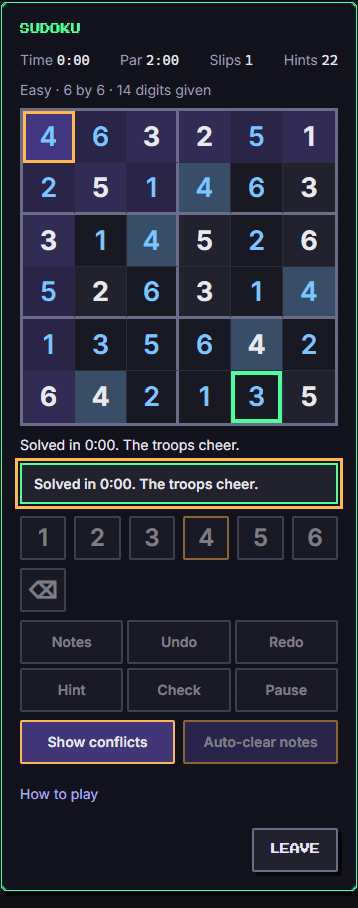
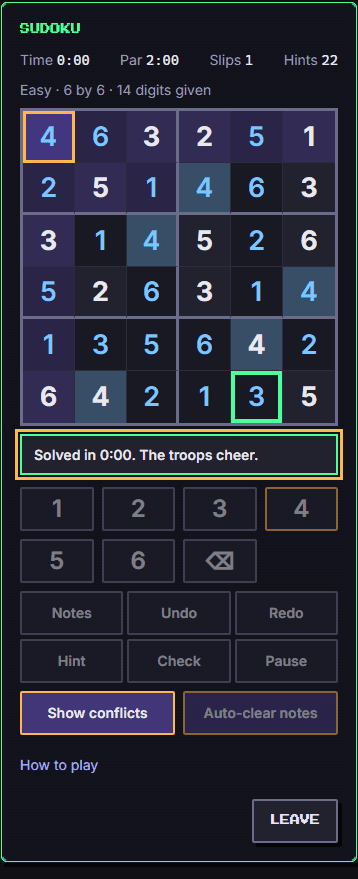
test(games): Sudoku e2e waits for the board; 6x6 pad in four columns [game-sudoku]

diff --git a/e2e/games/sudoku.spec.ts b/e2e/games/sudoku.spec.ts
@@ -17,6 +17,7 @@ const BLANK = /: empty$/;
 
 /** The index of the first blank cell, read from the cell names. */
 async function firstBlank(page: Page): Promise<number> {
+  await expect(page.getByRole('gridcell').first()).toBeVisible(); // the board has mounted: never read an empty stage
   const labels = await page.locator('[data-testid^="sudoku-cell-"]').evaluateAll((els) => els.map((el) => el.getAttribute('aria-label') ?? ''));
   return labels.findIndex((l) => /: empty$/.test(l));
 }
@@ -98,7 +99,7 @@ test('arrow keys move the one tab stop; a wrong digit is flagged by Check and fi
   await page.keyboard.press('ArrowRight');
   await expect(cell(page, rowStart + 1)).toBeFocused();
   await expect(page.locator('[role="gridcell"][tabindex="0"]')).toHaveCount(1);
-  // Find a blank cell and put a digit that is certainly wrong for it: one its row already holds as a given.
+  // Put a digit that is certainly wrong for the blank cell: one its row already holds as a given.
   const labels = await page.locator('[data-testid^="sudoku-cell-"]').evaluateAll((els) => els.map((el) => el.getAttribute('aria-label') ?? ''));
   const row = Math.floor(first / 9);
   const given = labels.slice(row * 9, row * 9 + 9).map((l) => /: (\d), given$/.exec(l)?.[1]).find(Boolean)!;
